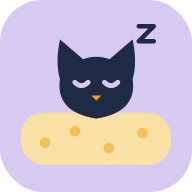
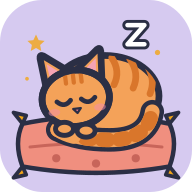
Placed cats curl up asleep in seven coats
A placed cat is now a curled sleeping cat (loaf curl, wrapped tail, ears,
closed eyes, pink nose, sometimes a little "z") with a dark #2B2F45 outline
and a soft light halo so it reads on fabric and furniture art down to ~32px.
Coats (tabby, black, white, grey, calico, tuxedo, siamese) come from CSS
custom properties on one symbol, picked per puzzle seed and region so they
stay stable and nearby beds differ. Adds a short settle-in squash (off
under reduced motion); the win hop still targets .cell.cat svg. The favicon
and app icons show the tabby asleep on a cushion, and the archive shows it
on solved days.

Claude-Session: https://claude.ai/code/session_01CQ5ygfivLxJKo3LV4VERHK

diff --git a/index.html b/index.html
@@ -19,14 +19,52 @@
 <link rel="stylesheet" href="css/archive.css">
 <link rel="stylesheet" href="css/polish.css">
 <link rel="stylesheet" href="css/leaderboard.css">
+<link rel="stylesheet" href="css/cats.css">
 </head>
 <body>
 <svg width="0" height="0" style="position:absolute" aria-hidden="true">
+  <defs>
+    <clipPath id="cat-body-clip"><ellipse cx="36" cy="37" rx="24" ry="18"/></clipPath>
+    <clipPath id="cat-head-clip"><ellipse cx="23" cy="38" rx="15" ry="12.5"/></clipPath>
+  </defs>
+  <!-- curled sleeping cat; coats come from custom properties set by .coat-* classes in css/cats.css (defaults: orange tabby) -->
   <symbol id="cat" viewBox="0 0 64 64">
-    <path fill="currentColor" d="M10 8 L24 20 Q32 17 40 20 L54 8 Q57 22 54 32 Q57 52 32 56 Q7 52 10 32 Q7 22 10 8Z"/>
-    <path fill="none" stroke="var(--bg)" stroke-width="3" stroke-linecap="round" d="M19 34 Q23 38 27 34 M37 34 Q41 38 45 34"/>
-    <path fill="var(--sun)" d="M29 42 h6 l-3 3z"/>
-    <path fill="none" stroke="var(--bg)" stroke-width="2" stroke-linecap="round" d="M32 45 v2 M14 43 h8 M42 43 h8"/>
+    <g stroke="#2B2F45" stroke-linejoin="round" stroke-linecap="round">
+      <ellipse cx="36" cy="37" rx="24" ry="18" stroke-width="3" style="fill:var(--fur,#F4A259)"/>
+      <g clip-path="url(#cat-body-clip)" stroke="none">
+        <ellipse cx="45" cy="25" rx="12" ry="8" style="fill:var(--pa,none)"/>
+        <ellipse cx="54" cy="43" rx="9" ry="8" style="fill:var(--pb,none)"/>
+        <path d="M39 20Q43 26 40 32M47 20.5Q51.5 27 48.5 33.5M55 24Q58.5 30 56 36" fill="none" stroke-width="3" style="stroke:var(--st,#D9762B);opacity:var(--sto,1)"/>
+      </g>
+      <path d="M57 44Q55 56.5 38 56.5Q24 56.5 15 52" fill="none" stroke-width="10.5"/>
+      <path d="M57 44Q55 56.5 38 56.5Q24 56.5 15 52" fill="none" stroke-width="6.5" style="stroke:var(--fur,#F4A259)"/>
+      <path d="M57 44Q55 56.5 38 56.5Q24 56.5 15 52" fill="none" stroke-width="6.5" stroke-linecap="butt" stroke-dasharray="2.6 5" stroke-dashoffset="-3" style="stroke:var(--st,#D9762B);opacity:var(--sto,1)"/>
+      <path d="M22 55Q18 54 15 52" fill="none" stroke-width="6.5" style="stroke:var(--tip,var(--fur,#F4A259))"/>
+      <g transform="rotate(-7 23 38)">
+        <path d="M10.6 33L9.4 18.6Q9.4 16.6 11 17.6L21.5 25.8Z" stroke-width="3" style="fill:var(--ear,var(--fur,#F4A259))"/>
+        <path d="M24.5 25.8L35 17.6Q36.6 16.6 36.6 18.6L35.4 33Z" stroke-width="3" style="fill:var(--ear,var(--fur,#F4A259))"/>
+        <path d="M12.6 27L12 21.4L17 25.4ZM29 25.4L34 21.4L33.4 27Z" fill="#F4A3B4" stroke="none" style="opacity:var(--earin,1)"/>
+        <ellipse cx="23" cy="38" rx="15" ry="12.5" stroke-width="3" style="fill:var(--fur,#F4A259)"/>
+        <g clip-path="url(#cat-head-clip)" stroke="none">
+          <ellipse cx="32" cy="30" rx="8.5" ry="7" style="fill:var(--pa,none)"/>
+          <ellipse cx="11" cy="33" rx="6.5" ry="6" style="fill:var(--pb,none)"/>
+          <ellipse cx="23" cy="43.5" rx="9" ry="7" style="fill:var(--pts,none)"/>
+          <path d="M23 32Q21 39 17.5 43Q16.5 51 23 51Q29.5 51 28.5 43Q25 39 23 32Z" style="fill:var(--bib,none)"/>
+          <path d="M19.5 26.5v4.5M23 26v5M26.5 26.5v4.5" fill="none" stroke-width="1.9" stroke-linecap="round" style="stroke:var(--st,#D9762B);opacity:var(--sto,1)"/>
+        </g>
+        <ellipse cx="23" cy="38" rx="15" ry="12.5" fill="none" stroke-width="3"/>
+        <ellipse cx="12.8" cy="43.2" rx="2.6" ry="1.6" fill="#F28FA6" stroke="none" opacity=".55"/>
+        <ellipse cx="33.2" cy="43.2" rx="2.6" ry="1.6" fill="#F28FA6" stroke="none" opacity=".55"/>
+        <path d="M14.5 38.6Q17.6 41.8 20.6 38.6M25.4 38.6Q28.4 41.8 31.5 38.6" fill="none" stroke-width="2.1" style="stroke:var(--eye,#2B2F45)"/>
+        <path d="M21.3 42.6H24.7L23 44.6Z" fill="#F07A96" stroke-width="1" style="stroke:var(--eye,#2B2F45)"/>
+      </g>
+      <ellipse cx="18" cy="51.6" rx="4" ry="2.9" stroke-width="2.2" style="fill:var(--paw,var(--fur,#F4A259))"/>
+      <ellipse cx="27.6" cy="52.4" rx="4" ry="2.9" stroke-width="2.2" style="fill:var(--paw,var(--fur,#F4A259))"/>
+      <g fill="none" style="opacity:var(--zz,0)">
+        <path d="M46 5.5h7.5l-7.5 8.5h7.5" stroke-width="4.6"/>
+        <path d="M46 5.5h7.5l-7.5 8.5h7.5" stroke="#FFFFFF" stroke-width="2"/>
+      </g>
+    </g>
   </symbol>
   <symbol id="x" viewBox="0 0 20 20"><path stroke="currentColor" stroke-width="3.2" stroke-linecap="round" d="M4 4 L16 16 M16 4 L4 16"/></symbol>
   <symbol id="heart" viewBox="0 0 24 24"><path fill="currentColor" d="M12 21s-7.5-4.6-9.6-9.2C.9 8.4 3 4.5 6.7 4.5c2.2 0 3.6 1.2 5.3 3 1.7-1.8 3.1-3 5.3-3 3.7 0 5.8 3.9 4.3 7.3C19.5 16.4 12 21 12 21z"/></symbol>

diff --git a/css/cats.css b/css/cats.css
@@ -1,0 +1,32 @@
+/* NapMap cats: a placed cat is a curled-up sleeper (<symbol id="cat"> in index.html). The symbol reads its colors from
+   custom properties, which inherit into the <use> tree, so each .coat-* class below is just a palette.
+   --fur body, --st stripes (--sto their opacity), --pa/--pb patches, --pts siamese mask, --bib tuxedo blaze,
+   --ear/--tip/--paw points, --eye closed-eye line, --earin inner-ear pink opacity, --zz the little "z". */
+.coat-tabby{--fur:#F4A259;--st:#D9762B;--sto:1}
+.coat-black{--fur:#52597A;--sto:0;--eye:#E6E9F4}
+.coat-white{--fur:#FFFFFF;--sto:0}
+.coat-grey{--fur:#A7B0C6;--st:#808AA6;--sto:.8}
+.coat-calico{--fur:#FFF6EA;--pa:#F29A4A;--pb:#52597A;--sto:0}
+.coat-tuxedo{--fur:#52597A;--bib:#FFFFFF;--paw:#FFFFFF;--tip:#FFFFFF;--sto:0;--eye:#E6E9F4}
+.coat-siamese{--fur:#F6EBD6;--pts:#7A5A45;--ear:#7A5A45;--tip:#7A5A45;--sto:0;--eye:#F6EBD6;--earin:0}
+.zz{--zz:1}
+
+/* bigger than other marks, with a soft light halo so it reads on patterned fabric and furniture art */
+.cell.cat svg{width:86%;height:86%;color:inherit;overflow:visible;
+  filter:drop-shadow(0 0 1.2px rgba(255,255,255,.95)) drop-shadow(0 0 2.4px rgba(255,255,255,.6)) drop-shadow(0 1px 0 rgba(43,47,69,.18));
+  transform-origin:50% 88%;animation:cat-settle .26s cubic-bezier(.3,.7,.4,1)}
+.board-wrap[data-n="10"] .cell.cat svg{width:92%;height:92%}
+@media (prefers-color-scheme: dark){:root:not([data-theme="light"]) .cell.cat svg{
+  filter:drop-shadow(0 0 1.2px rgba(255,255,255,.8)) drop-shadow(0 0 2.6px rgba(238,241,248,.45))}}
+:root[data-theme="dark"] .cell.cat svg{filter:drop-shadow(0 0 1.2px rgba(255,255,255,.8)) drop-shadow(0 0 2.6px rgba(238,241,248,.45))}
+
+/* settle in: drops in, squashes onto the cushion, then relaxes */
+@keyframes cat-settle{
+  0%{transform:translateY(-14%) scale(.82,1.1);opacity:.4}
+  45%{transform:translateY(0) scale(1.14,.84);opacity:1}
+  75%{transform:scale(.97,1.03)}
+  100%{transform:none}}
+@media (prefers-reduced-motion:reduce){.cell.cat svg{animation:none}}
+
+/* archive: a solved day shows the default (tabby) sleeper */
+.arc-cat{overflow:visible}

diff --git a/js/game.js b/js/game.js
@@ -48,12 +48,15 @@ function render(){const n=P.n,b=$('board');b.style.gridTemplateColumns=`repeat($
       b.appendChild(e);cellEls.push(e)}}
   cellEls.forEach((e,k)=>{const s=cells[k],cls='cell'+(s===2?' cat':'')+(s===3?' wrong':'');
     if(e.dataset.s!=s){e.dataset.s=s;e.className=cls;
-      e.innerHTML=s===2?'<svg><use href="#cat"/></svg>':(s===1||s===3)?'<svg class="x"><use href="#x"/></svg>':'';}
+      e.innerHTML=s===2?`<svg class="${catCoat(k)}" viewBox="0 0 64 64"><use href="#cat"/></svg>`:(s===1||s===3)?'<svg class="x"><use href="#x"/></svg>':'';}
     const r=k/n|0,c=k%n;e.setAttribute('aria-label',`Row ${r+1}, column ${c+1}, ${BEDS[P.colors[P.reg[k]]]}, ${['empty','crossed out','cat','wrong guess'][s]}`)});
   const lab=mode==='daily'?(P.dateKey===today()?'Daily · ':'Past daily · ')+dateOf(P.dateKey).toLocaleDateString(undefined,{month:'short',day:'numeric'}):`${P.n}×${P.n} · #${(P.seed%100000).toString().padStart(5,'0')}`;
   $('label').textContent=lab;
   document.querySelectorAll('.chip[data-mode]').forEach(ch=>ch.setAttribute('aria-pressed',ch.dataset.mode==mode));
   $('undo').disabled=!undo.length||done;$('hint').disabled=done;renderStats()}
+/* sleeping-cat coat, stable per puzzle and cell; stepping by 3 through 7 coats keeps nearby beds different (css/cats.css) */
+const COATS=['tabby','black','white','grey','calico','tuxedo','siamese'];
+function catCoat(k){const h=Math.imul(P.seed^0x5bd1e995,2654435761)>>>0;return 'coat-'+COATS[(h+P.reg[k]*3)%7]+(((h>>>11)+k*5)%3?'':' zz')}
 function renderHearts(){$('hearts').innerHTML=[0,1,2].map(i=>`<svg class="${i>=lives?'lost':''}"><use href="#heart"/></svg>`).join('')}
 function fmt(ms){const s=Math.floor(ms/1000);return Math.floor(s/60)+':'+String(s%60).padStart(2,'0')}
 function tick(){$('timer').textContent=fmt(elapsed+(startT?Date.now()-startT:0))}

diff --git a/sw.js b/sw.js
@@ -4,7 +4,7 @@ const VERSION = 'napmap-v6';
 const SHELL = ['./', 'index.html', 'css/style.css', 'css/furniture.css', 'js/furniture.js', 'js/generator.js', 'js/game.js',
   'css/archive.css', 'js/archive.js',
   'css/polish.css', 'js/polish.js', 'js/gen-worker.js',
-  'css/leaderboard.css', 'js/config.js', 'js/leaderboard.js',
+  'css/leaderboard.css', 'css/cats.css', 'js/config.js', 'js/leaderboard.js',
   'manifest.webmanifest', 'icons/icon.svg', 'icons/icon-192.png', 'icons/icon-512.png'];
 
 self.addEventListener('install', e => {
